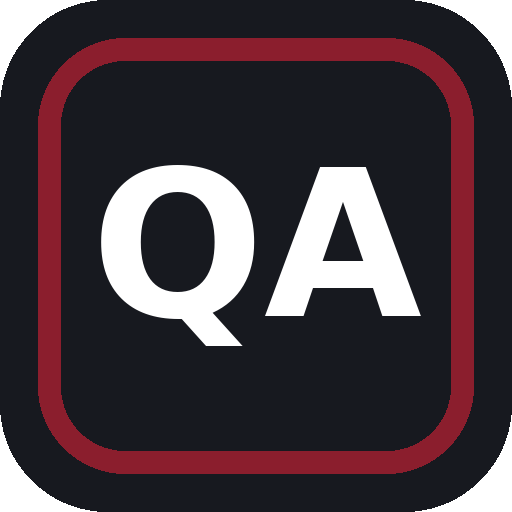
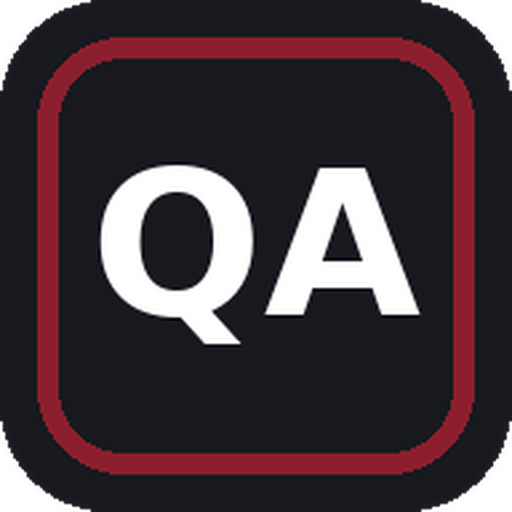
Add files via upload

diff --git a/index.html b/index.html
@@ -293,7 +293,7 @@
 .nm-chart canvas{width:100%!important;max-width:100%!important;height:100%!important;max-height:none!important;min-height:0}
 @media(max-width:1300px){.nm-layout{grid-template-columns:1fr}.nm-charts{grid-template-columns:1fr 1fr}}
 @media(max-width:760px){.nm-charts{grid-template-columns:1fr}.nm-chart{height:370px!important}.nm-page .panel{padding:10px!important}}
-</style><link rel="icon" type="image/png" sizes="32x32" href="/favicon-32.png"><link rel="apple-touch-icon" href="/icon-192.png"><script>
+</style><link rel="icon" href="/favicon.ico" sizes="any"><link rel="icon" type="image/png" href="/favicon.png"><link rel="manifest" href="/manifest.webmanifest"><link rel="apple-touch-icon" href="/icon-192.png"><script>
 // Cloudflare Pages -> server-side Function -> Apps Script JSON endpoint.
 window.google={script:{run:new Proxy({}, {get(_t,key){if(key==='withSuccessHandler')return (success)=>makeCall(success,null);return undefined;}})}};
 function makeCall(success,failure){return new Proxy({}, {get(_t,key){if(key==='withFailureHandler')return (fn)=>makeCall(success,fn);if(key==='withSuccessHandler')return (fn)=>makeCall(fn,failure);return (...args)=>{fetch('/api/kpi',{method:'POST',headers:{'Content-Type':'application/json'},body:JSON.stringify({method:key,args})}).then(async r=>{const j=await r.json();if(!r.ok||!j.ok)throw Error(j.error||'API error');return j.result}).then(v=>success&&success(v)).catch(e=>{if(failure)failure(e);else console.error(e)});};}})}
